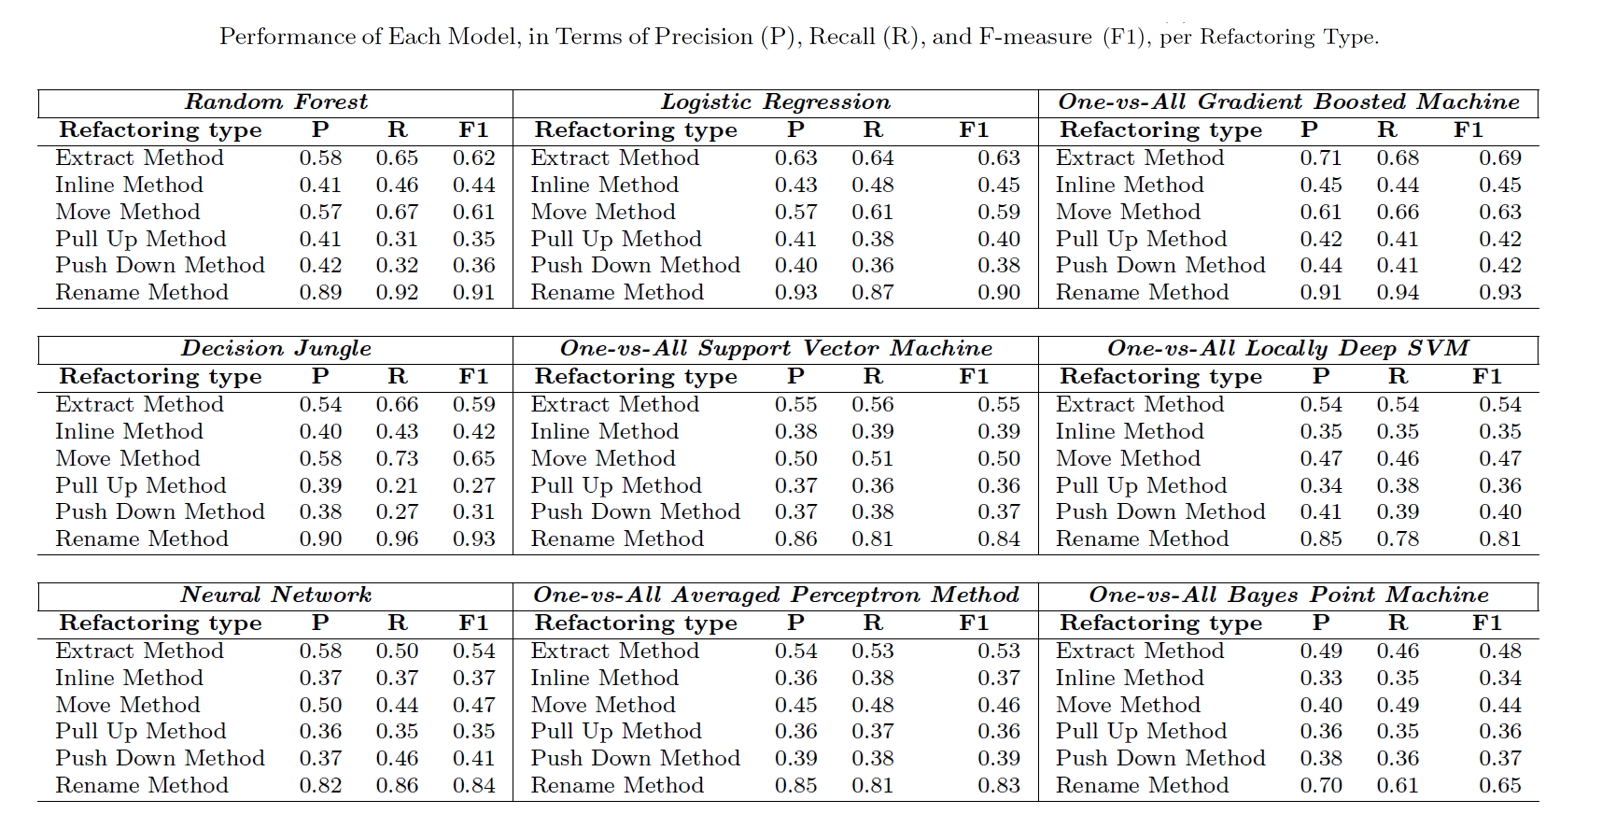
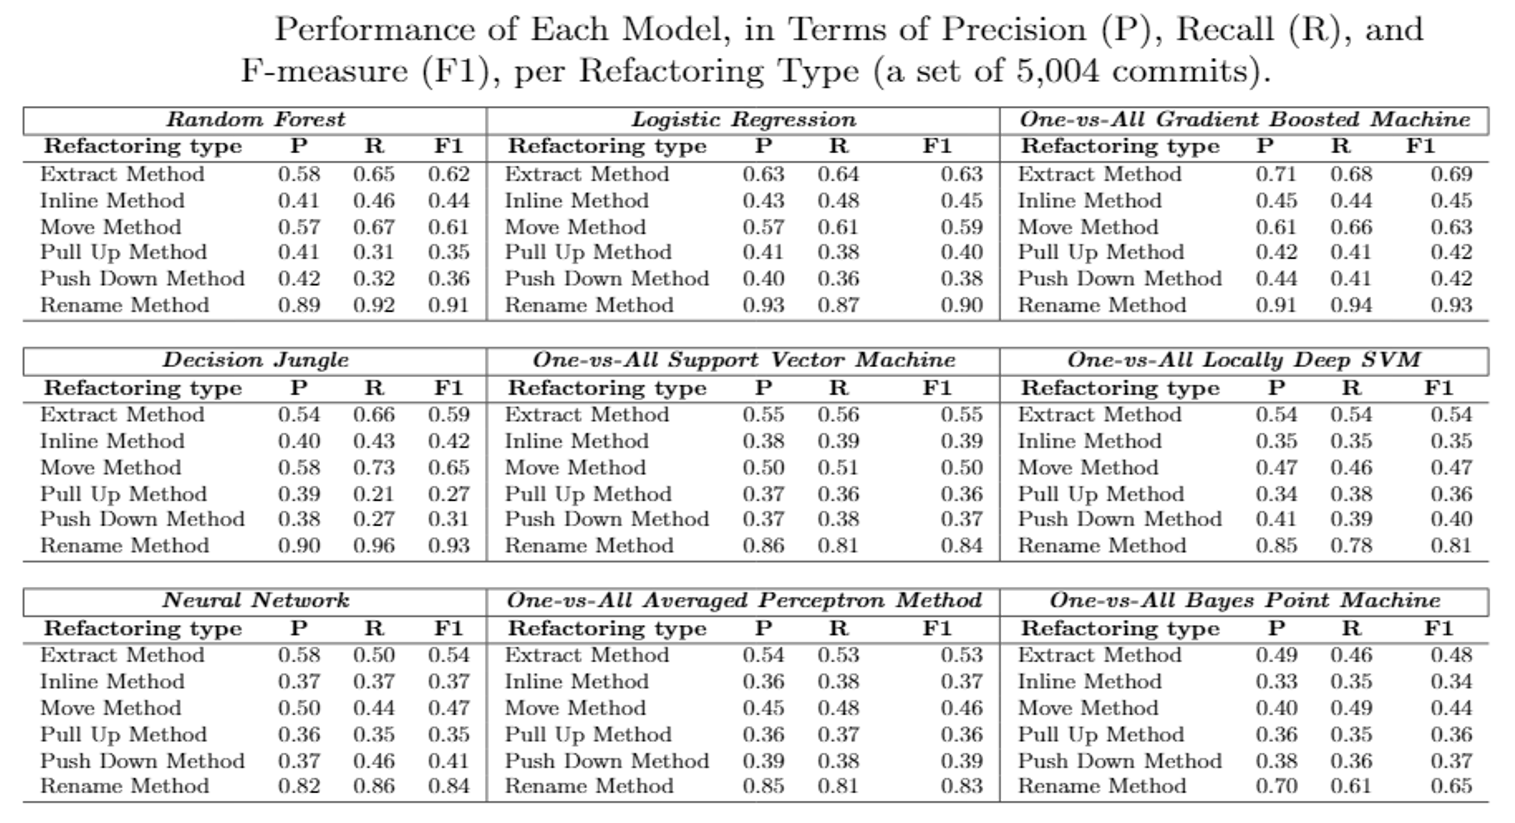
add ML performance with a set of 6000 commits in the website for ASEj

diff --git a/ASE20_Experiment.html b/ASE20_Experiment.html
@@ -103,6 +103,23 @@ Push-down Method, as its F-measure was between 42% and 45%.</p></blockquote>
 </div>
 </div>
 
+<div class="container text-center">    
+  <br>
+<div class="container">    
+  <div class="row">
+    <div class="col-sm-12">
+      <div class="panel panel-primary">
+        <div class="panel-heading">
+  <!--<a href="https://github.com/ops4j/org.ops4j.pax.runner/commit/ffb106d0b79505acb6344dffc10660226b12d69a">Click here to view on GitHub</a>-->
+</div>
+        <div class="panel-body"><img src="./Images/MLPerformance3.PNG" class="img-responsive" style="width:100%" alt="Image"></div>
+        <div class="panel-footer"></div>
+      </div>
+    </div>
+  </div>
+</div>
+</div>
+
 
 <hr>
 
